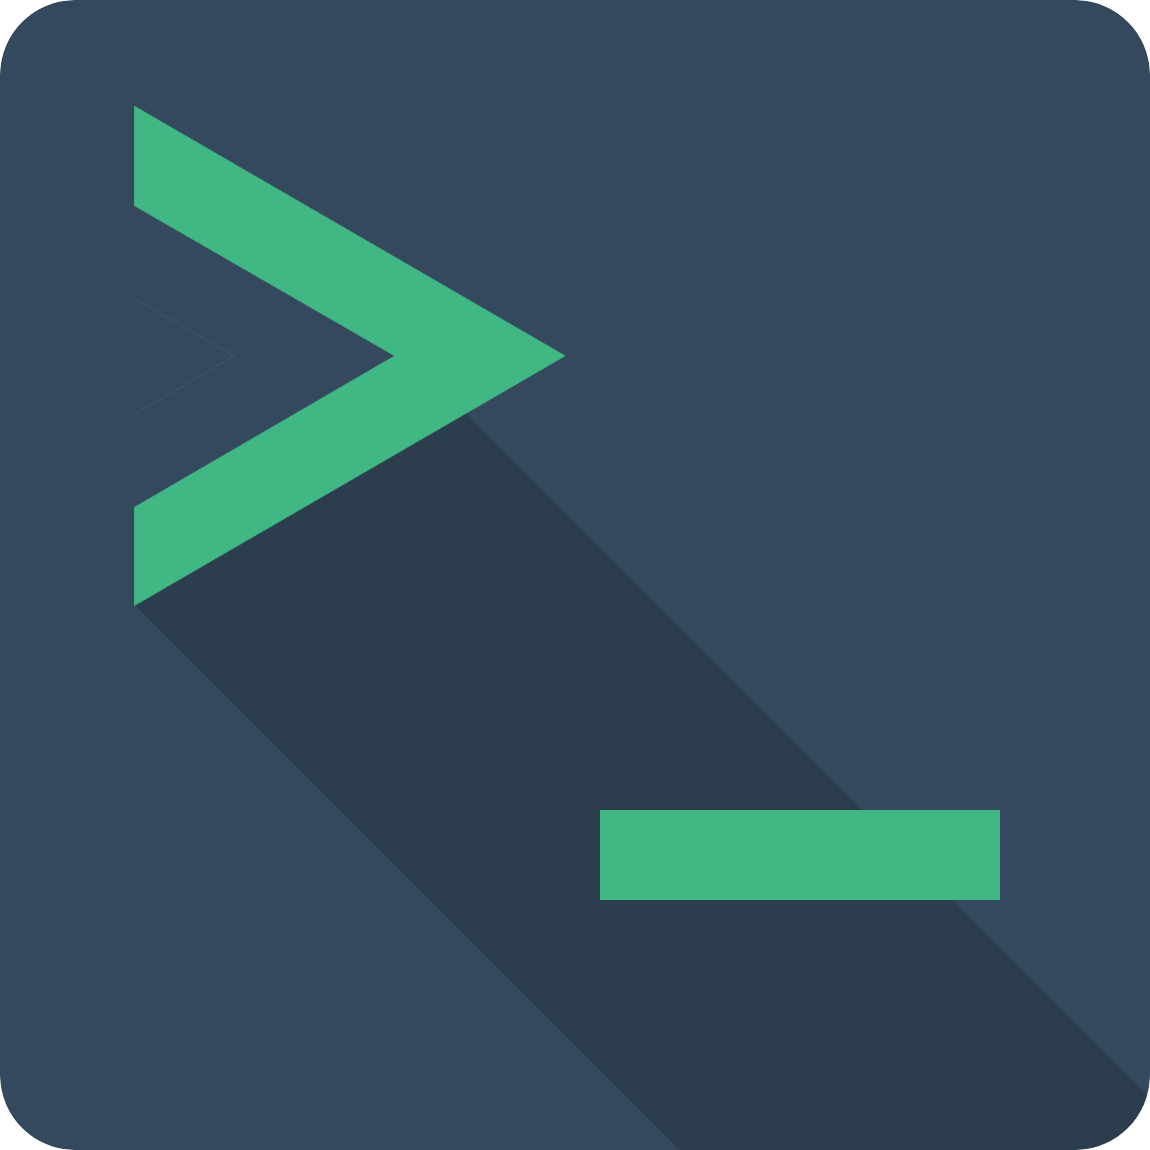
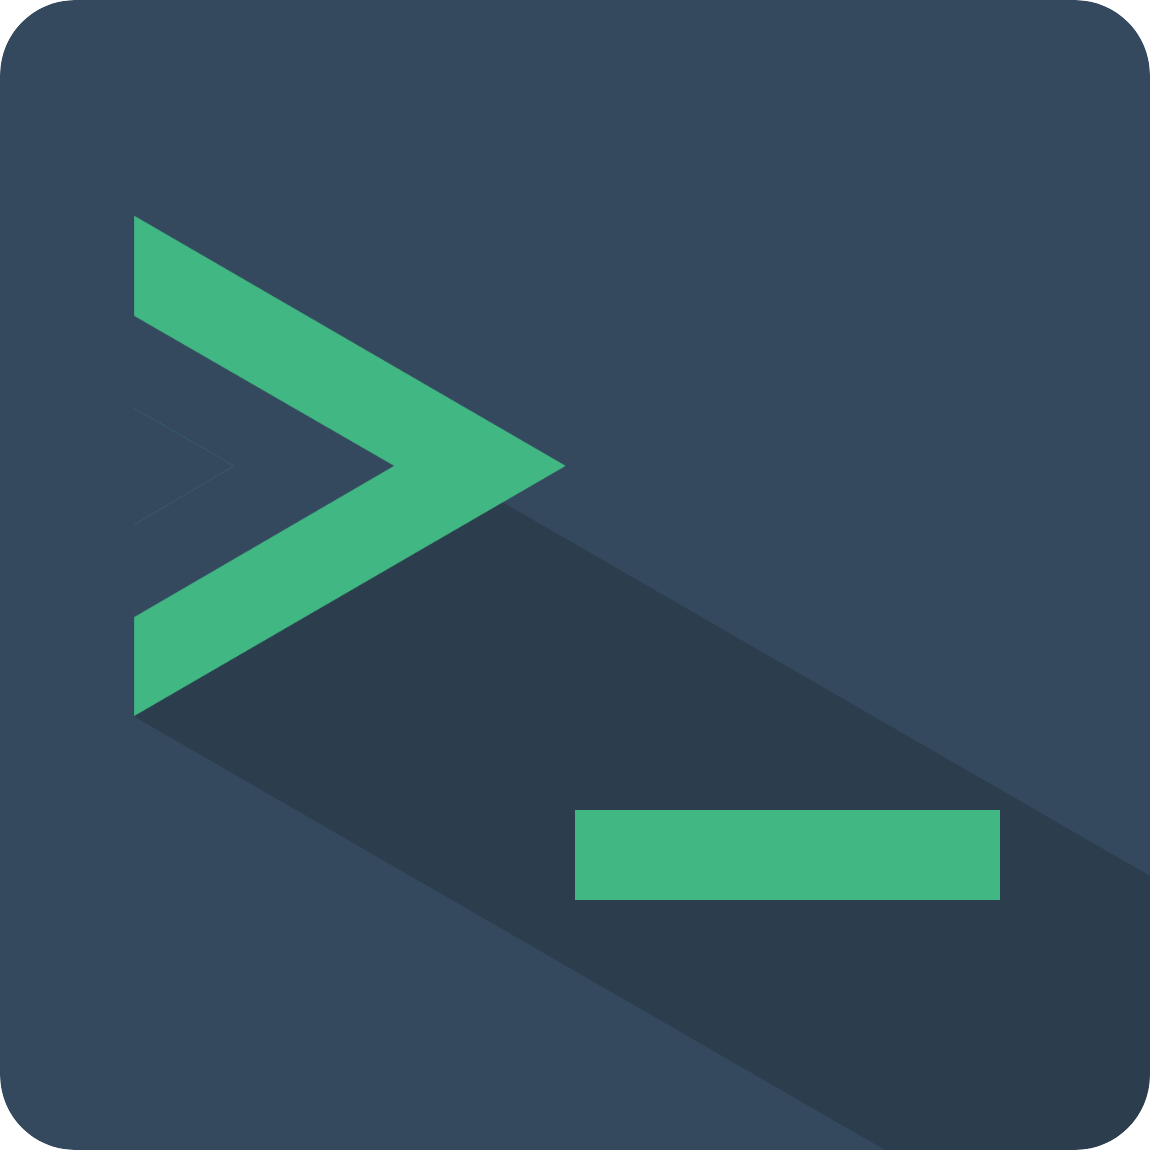
feat 更新logo，替换代码引用

Changed region(s): [[0.0913, 0.0913, 0.487, 0.6391], [0.487, 0.7, 0.5478, 0.7913]]

diff --git a/docs/.vuepress/examples/First.vue b/docs/.vuepress/examples/First.vue
@@ -1,0 +1,43 @@
+<template>
+  <terminal name="my-terminal"
+            @exec-cmd="onExecCmd"
+            :drag-conf="dragConf" />
+</template>
+<script>
+export default {
+  name: 'App',
+  data(){
+    return {
+      dragConf: {
+        width: "50%",
+        height: "70%",
+        zIndex: 100,
+        init: {
+          x: 200,
+          y: 200
+        },
+        pinned: false
+      }
+    }
+  },
+  methods: {
+    onExecCmd(key, command, success, failed) {
+      if (key === 'fail') {
+        failed('Something wrong!!!')
+      } else {
+        let allClass = ['success', 'error', 'system', 'info', 'warning'];
+
+        let clazz = allClass[Math.floor(Math.random() * allClass.length)];
+        success({
+          type: 'normal',
+          class: clazz,
+          tag: clazz,
+          content: `Your command is '${command}'`
+        })
+      }
+    }
+  }
+}
+</script>
+<style scoped>
+</style>

diff --git a/docs/.vuepress/config.js b/docs/.vuepress/config.js
@@ -158,6 +158,11 @@ export default defineUserConfig({
             }
         }
     }),
+    markdown: {
+        importCode: {
+            handleImportPath: (str) => str.replace(/@src/, __dirname)
+        }
+    },
     plugins: [
         //  https://giscus.app/zh-CN
         commentPlugin({

diff --git a/docs/.vuepress/styles/index.scss b/docs/.vuepress/styles/index.scss
@@ -28,3 +28,7 @@
 .t-window table {
   display: table;
 }
+
+.vp-hero-image {
+  filter: drop-shadow(0 0 15px rgba(0, 0, 0, 0.5));
+}

diff --git a/docs/zh/getting-started.md b/docs/zh/getting-started.md
@@ -79,51 +79,7 @@ createApp(App).use(Terminal)
 
 ## 你的第一个vue-web-terminal
 
-```vue
-<template>
-  <terminal name="my-terminal"
-            @exec-cmd="onExecCmd"
-            :drag-conf="dragConf" />
-</template>
-<script>
-  export default {
-    name: 'App',
-    data(){
-      return {
-        dragConf: {
-          width: "50%",
-          height: "70%",
-          zIndex: 100,
-          init: {
-            x: 200,
-            y: 200
-          },
-          pinned: false
-        }
-      }
-    },
-    methods: {
-      onExecCmd(key, command, success, failed) {
-        if (key === 'fail') {
-          failed('Something wrong!!!')
-        } else {
-          let allClass = ['success', 'error', 'system', 'info', 'warning'];
-
-          let clazz = allClass[Math.floor(Math.random() * allClass.length)];
-          success({
-            type: 'normal',
-            class: clazz,
-            tag: clazz,
-            content: `Your command is '${command}'` 
-          })
-        }
-      }
-    }
-  }
-</script>
-<style scoped>
-</style>
-```
+@[code vue](@src/examples/First.vue)
 
 启动你的工程之后，如果在页面中出现一个可拖拽的终端窗口，那么恭喜你的第一个terminal应用实现了！
 你可以在窗口中输入*任意命令*然后回车，会随机提示不同的级别的内容。

diff --git a/docs/getting-started.md b/docs/getting-started.md
@@ -81,51 +81,7 @@ createApp(App).use(Terminal)
 
 ## Your first vue-web-terminal
 
-```vue
-<template>
-  <terminal name="my-terminal"
-            @exec-cmd="onExecCmd"
-            :drag-conf="dragConf" />
-</template>
-<script>
-  export default {
-    name: 'App',
-    data(){
-      return {
-        dragConf: {
-          width: "50%",
-          height: "70%",
-          zIndex: 100,
-          init: {
-            x: 200,
-            y: 200
-          },
-          pinned: false
-        }
-      }
-    },
-    methods: {
-      onExecCmd(key, command, success, failed) {
-        if (key === 'fail') {
-          failed('Something wrong!!!')
-        } else {
-          let allClass = ['success', 'error', 'system', 'info', 'warning'];
-
-          let clazz = allClass[Math.floor(Math.random() * allClass.length)];
-          success({
-            type: 'normal',
-            class: clazz,
-            tag: clazz,
-            content: `Your command is '${command}'` 
-          })
-        }
-      }
-    }
-  }
-</script>
-<style scoped>
-</style>
-```
+@[code vue](@src/examples/First.vue)
 
 After starting your project, if a draggable terminal window appears on the page, congratulations on your first terminal application!
 
